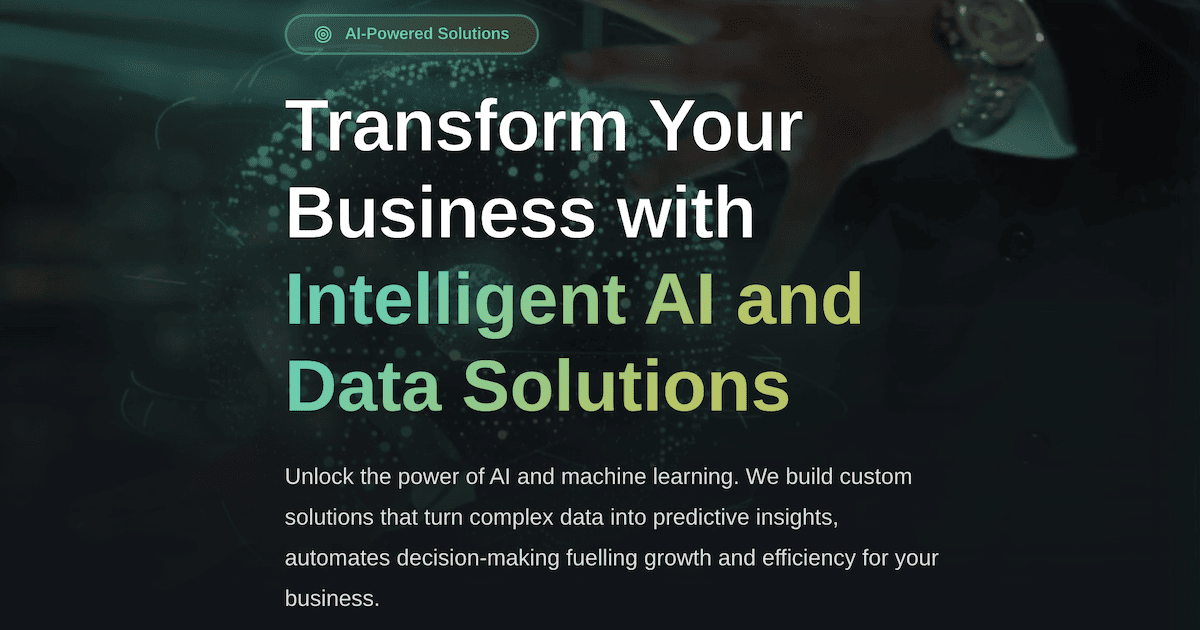
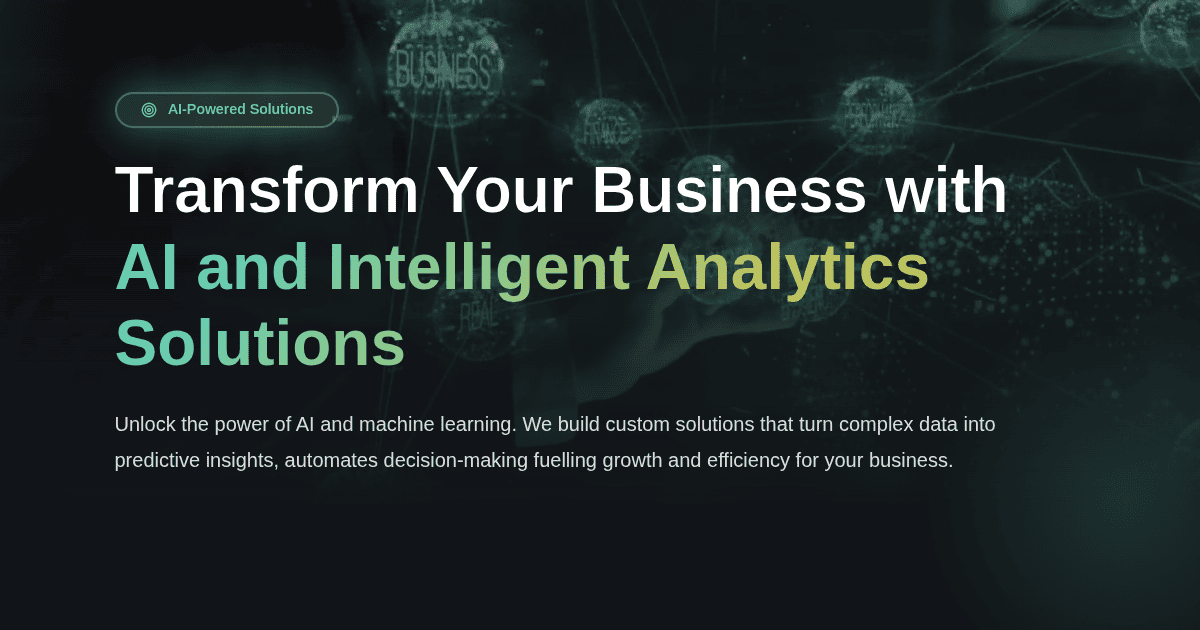
fix: changes hero text , open-graph title and image (#84)

diff --git a/src/content/home/home.md b/src/content/home/home.md
@@ -1,7 +1,7 @@
 ---
 hero:
     title_part_1: 'Transform Your Business with'
-    title_part_2: 'Intelligent AI and Data Solutions'
+    title_part_2: 'AI and Intelligent Analytics Solutions '
     pill_text: 'AI-Powered Solutions'
     info: 'Unlock the power of AI and machine learning. We build custom solutions that turn complex data into predictive insights, automates decision-making fuelling growth and efficiency for your business.'
 
